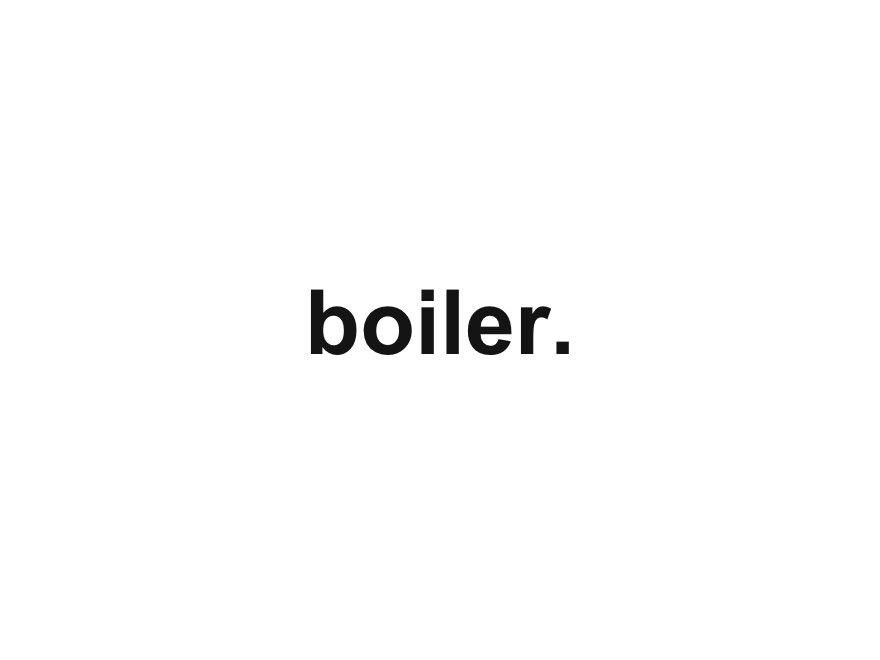
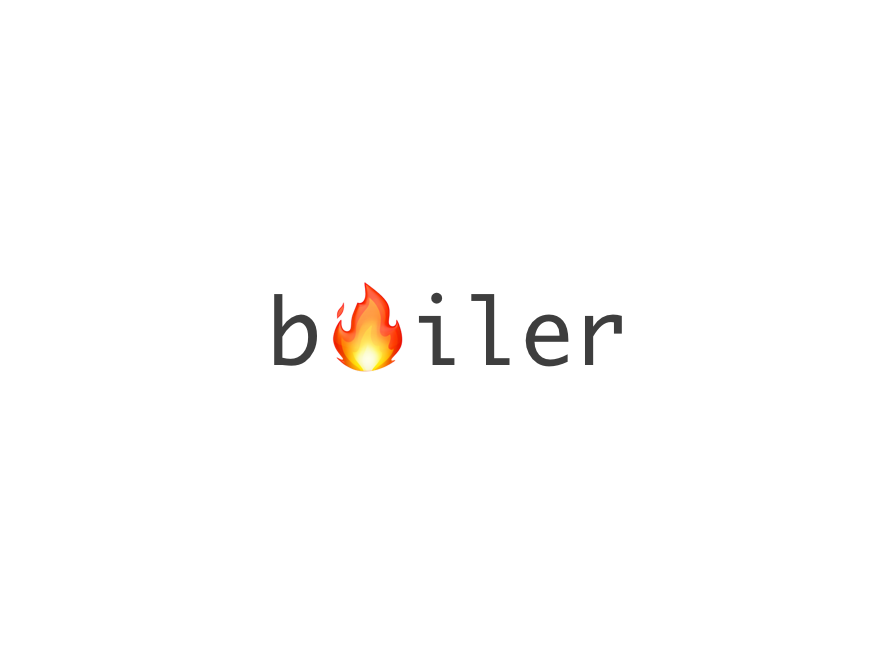
Update README + screenshot

Changed region(s): [[0.3068, 0.4242, 0.7057, 0.5758]]

diff --git a/README.md b/README.md
@@ -3,4 +3,4 @@
 1. Fork this repo and clone it into your `wp-content/themes` directory
 2. `npm install`
 
-Running `gulp` will spin up BrowserSync and will start watching for changes and compile your scss.
+Running `gulp` will spin up BrowserSync and will watch for changes/compiling your scss.
